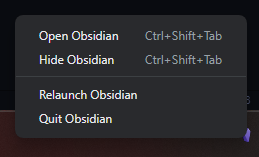
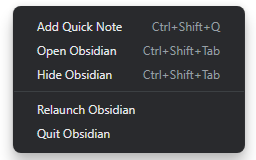
chore: bump version to 0.2.0, update readme

diff --git a/main.js b/main.js
@@ -1,4 +1,4 @@
-/* obsidian-tray v0.1.2
+/* obsidian-tray v0.2.0
    by @dragonwocky */
 
 "use strict";

diff --git a/README.md b/README.md
@@ -19,11 +19,11 @@ toggle app window visibility and can create quick notes from anywhere in your op
 
 ### Quick notes
 
-| Option                 | Description                                                                                                                                                                                   | Default    |
-| ---------------------- | --------------------------------------------------------------------------------------------------------------------------------------------------------------------------------------------- | ---------- |
-| Quick note location    | New quick notes will be placed in this folder.                                                                                                                                                |            |
-| Quick note date format | New quick notes will use a filename of this pattern. Format: [Moment.js format string](https://momentjs.com/docs/#/displaying/format/)                                                        | YYYY-MM-DD |
-| Quick note hotkey      | This hotkey is registered globally and will be detected even if Obsidian does not have keyboard focus. Format: [Electron accelerator](https://www.electronjs.org/docs/latest/api/accelerator) | Disabled   |
+| Option                 | Description                                                                                                                                                                                   | Default           |
+| ---------------------- | --------------------------------------------------------------------------------------------------------------------------------------------------------------------------------------------- | ----------------- |
+| Quick note location    | New quick notes will be placed in this folder.                                                                                                                                                |                   |
+| Quick note date format | New quick notes will use a filename of this pattern. Format: [Moment.js format string](https://momentjs.com/docs/#/displaying/format/)                                                        | YYYY-MM-DD        |
+| Quick note hotkey      | This hotkey is registered globally and will be detected even if Obsidian does not have keyboard focus. Format: [Electron accelerator](https://www.electronjs.org/docs/latest/api/accelerator) | CmdOrCtrl+Shift+Q |
 
 ## Installation
 
